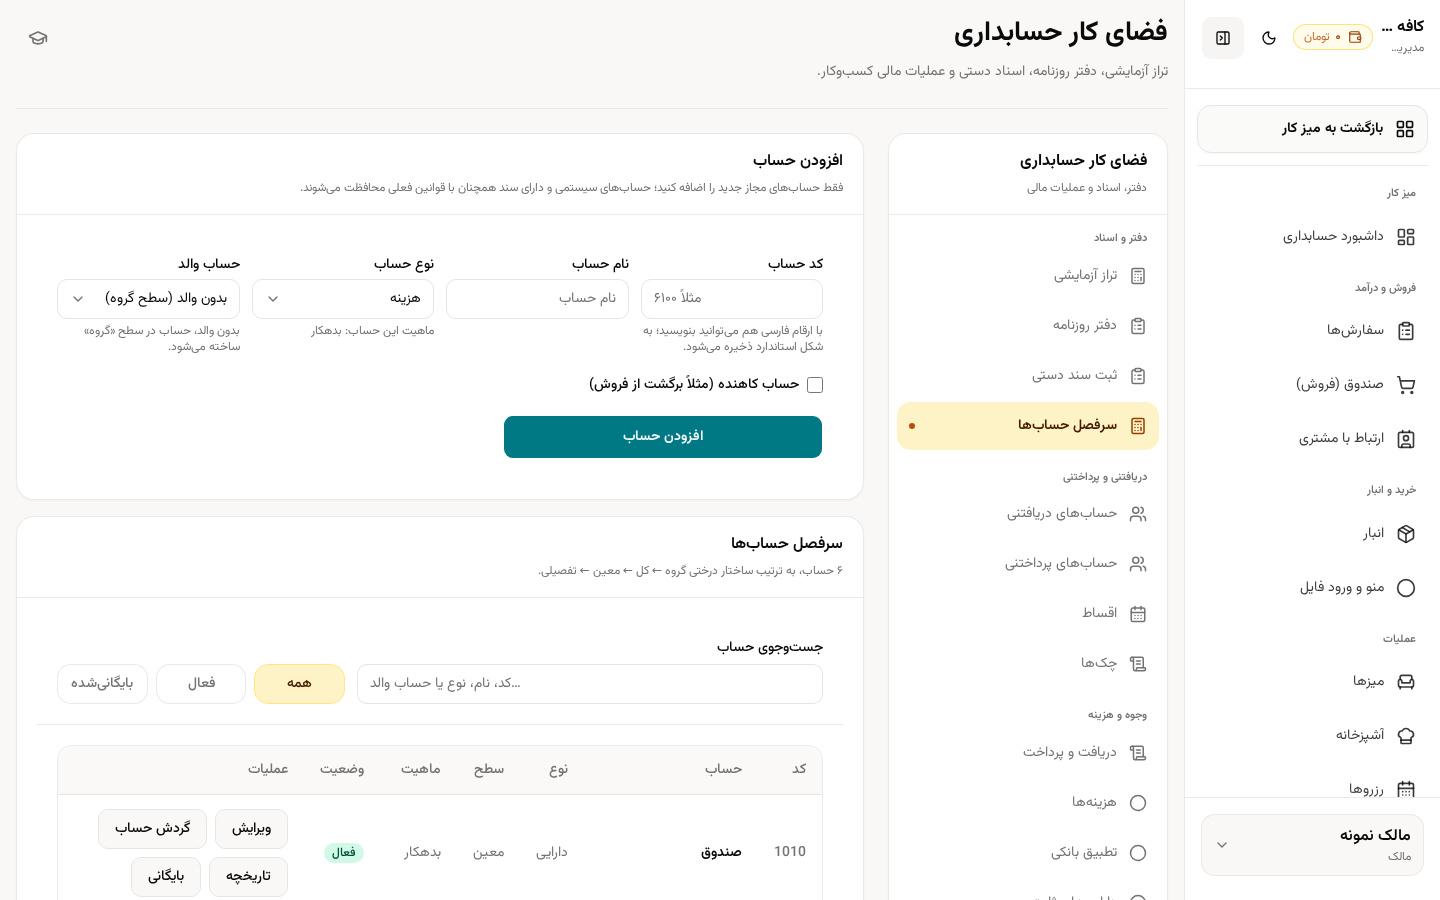
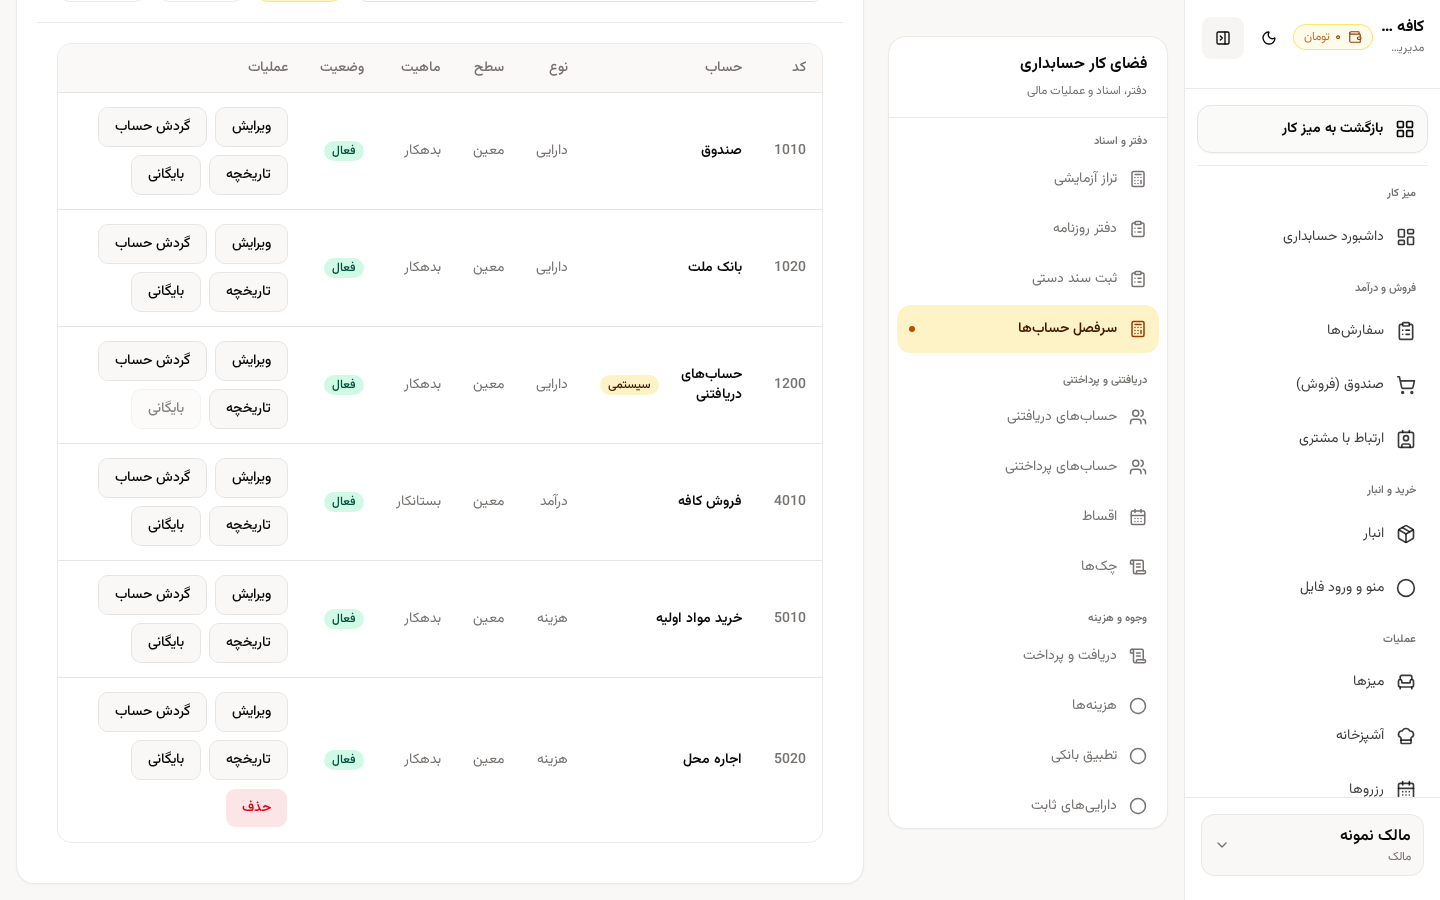
test(visual): frame the chart-of-accounts table, not the form above it

diff --git a/docs/design/visual-regression.md b/docs/design/visual-regression.md
@@ -90,9 +90,10 @@ exists to prevent.
 ## Framing: the `anchor` option
 
 A screen entry may carry `anchor: "<css selector>"`, which scrolls that element
-to the top of the viewport before the shot. `accounting-expenses` uses it: the
-register sits under its entry form, so the default viewport frames the form and
-one row of the table the baseline exists to protect. The harness throws if the
+to the top of the viewport before the shot. `accounting-chart-of-accounts` and
+`accounting-expenses` use it: both registers sit under an entry form, so the
+default viewport frames the form and one row of the table the baseline exists to
+protect. The harness throws if the
 selector matches nothing, rather than silently recording the unscrolled frame.
 
 ## Adding a screen
